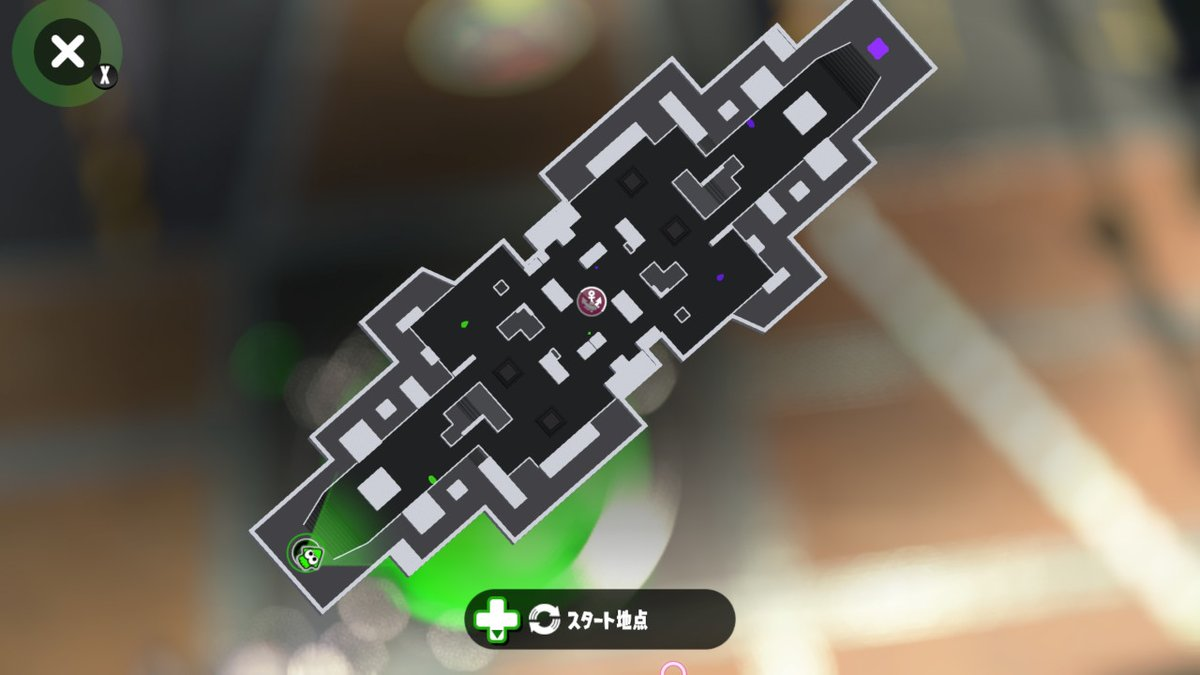
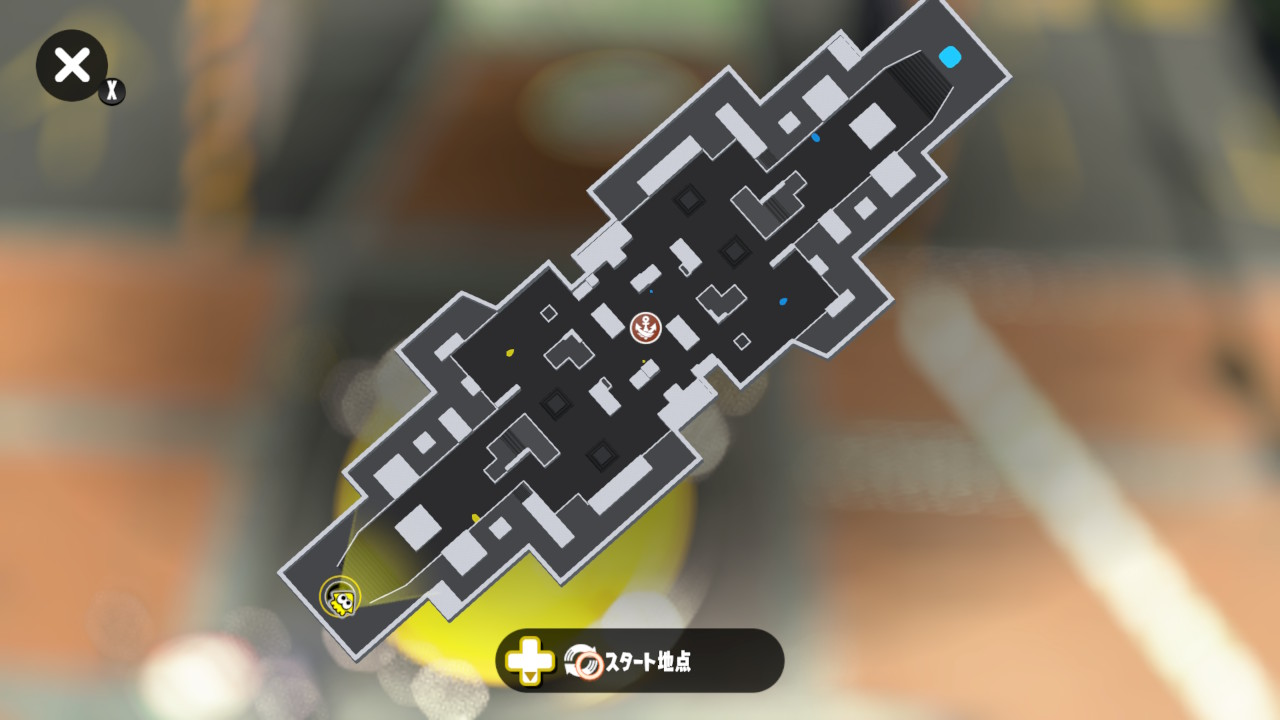
map select system changes

diff --git a/public/js/squid_map.js b/public/js/squid_map.js
@@ -48,60 +48,64 @@ $(function(){
                 var canvases = [];
                 var ctxs = [];
 
-                var map_src_list = ['walleye.png','saltspray.png','urchin.png','blackbelly.png','arowana.png','mackerel.png','kelp.png','bluefin.png','moray.png','triggerfish.png','flounder.png','hammerhead.png','alfonsino.png','mahi-mahiA.png','mahi-mahiB.png','piranha.png','ancho-v.png'];
-
-                var map_name_src = [
+                var img_header = '/img/map/';
+                var stages = [
+                    {
+                        name:"バッテラストリート",
+                        eng:"TheReef"
+                    },
+                    // {
+                    //     name:"フジツボスポーツクラブ",
+                    //     eng:"MussleforgeFitness"
+                    // },
                     {
                         name:"ガンガゼ音楽堂",
-                        thumbnail:"/img/thumnail/gangaze.png",
-                        src:"/img/map/gangaze.jpg"
-                    },
-                    {
-                        name:"モズク農園",
-                        thumbnail:"/img/thumnail/mozuku.jpg",
-                        src:"/img/map/mozuku.jpg"
-                    },
-                    {
-                        name:"ホッケ埠頭",
-                        thumbnail:"/img/thumnail/hokke.png",
-                        src:"/img/map/hokke.jpg"
-                    },
-                    {
-                        name:"エンガワ河川敷",
-                        thumbnail:"/img/thumnail/engawa.jpg",
-                        src:"/img/map/engawa.jpg"
-                    },
-                    {
-                        name:"フジツボスポーツクラブ",
-                        thumbnail:"/img/thumnail/hujitsubo.png",
-                        src:"/img/map/hujitsubo.jpg"
-                    },
-                    {
-                        name:"モズク農園",
-                        thumbnail:"/img/thumnail/mozuku.jpg",
-                        src:"/img/map/mozuku.jpg"
-                    },
-                    {
-                        name:"チョウザメ造船所",
-                        thumbnail:"/img/thumnail/chouzame.png",
-                        src:"/img/map/chouzame.jpg"
-                    },
-                    {
-                        name:"海女美術大学",
-                        thumbnail:"/img/thumnail/amabi.png",
-                        src:"/img/map/amabi.jpg"
-                    },
-                    {
-                        name:"タチウオパーキング",
-                        thumbnail:"/img/thumnail/tachiuo.png",
-                        src:"/img/map/tachiuo.jpg"
+                        eng:"StarfishMainstage"
                     },
                     {
                         name:"コンブトラック",
-                        thumbnail:"/img/thumnail/konbu.png",
-                        src:"/img/map/konbu.jpg"
+                        eng:"HumpbackPumpTrack"
                     },
-
+                    // {
+                    //     name:"海女美術大学",
+                    //     eng:"InkblotArtAcademy"
+                    // },
+                    // {
+                    //     name:"チョウザメ造船所",
+                    //     eng:"SturgeonShipyard"
+                    // },
+                    // {
+                    //     name:"タチウオパーキング",
+                    //     eng:"MorayTowers"
+                    // },
+                    // {
+                    //     name:"ホッケ埠頭",
+                    //     eng:"PortMackerel"
+                    // },
+                    // {
+                    //     name:"マンタマリア号",
+                    //     eng:"MantaMaria"
+                    // },
+                    // {
+                    //     name:"モズク農園",
+                    //     eng:"KelpDome"
+                    // },
+                    // {
+                    //     name:"エンガワ河川敷",
+                    //     eng:"SnapperCanal"
+                    // },
+                    // {
+                    //     name:"Bバスパーク",
+                    //     eng:"BlackbellySkatepark"
+                    // },
+                    // {
+                    //     name:"ザトウマーケット",
+                    //     eng:"MakoMart"
+                    // },
+                    // {
+                    //     name:"ハコフグ倉庫",
+                    //     eng:"WalleyeWarehouse"
+                    // }
                 ];
 
                 var $slider = $('#layer_opacity').slider({
@@ -141,6 +145,7 @@ $(function(){
 
                 $('[name="rule"]').change(function(event) {
                     console.log($(this).val());
+                    $('#view').css('background-image', 'url('+img_header+stages[$('#view').data('mapnum')].eng+ '/'+ $(this).val() +'.jpg'+')');
                     socket.emit('c2s_broadcast',{
                         act:'select_rule',
                         rule:$(this).val()
@@ -338,7 +343,7 @@ $(function(){
                                 });
                             });
                             $(map).attr(
-                                "src",map_name_src[$('#view').data('mapnum')].src
+                                "src",img_header+stages[$('#view').data('mapnum')].eng+'/'+ $('[name="rule"]').val() +'.jpg'
                             );
                             break;
                     }
@@ -444,7 +449,7 @@ $(function(){
                             $this = $(".map[data-num='"+num+"']");
                             $(".map").removeClass('active');
                             $this.addClass('active');
-                            $('#view').css('background-image', 'url('+map_name_src[num].src+')').data('mapnum',num);
+                            $('#view').css('background-image', 'url('+img_header+stages[num].eng+'/'+ $('[name="rule"]').val() +'.jpg'+')').data('mapnum',num);
                         break;
 
                         case "change_layer_name":
@@ -455,6 +460,8 @@ $(function(){
                         case "select_rule":
                             console.log(data.rule);
                             $('[name="rule"]').val(data.rule);
+                            $('#view').css('background-image', 'url('+img_header+stages[$('#view').data('mapnum')].eng+'/'+ data.rule +'.jpg'+')').data('mapnum',num);
+
                         break;
                     }
                 });
@@ -592,8 +599,8 @@ $(function(){
                     $this = $(".map[data-num='"+num+"']");
                     $(".map").removeClass('active');
                     $this.addClass('active');
-
-                    $('#view').data('num',num).css('background-image', 'url('+map_name_src[num].src+')').data('mapnum',num);
+                    console.log(img_header+stages[num].eng+'/'+data.rule +'.jpg');
+                    $('#view').data('num',num).css('background-image', 'url('+img_header+stages[num].eng+'/'+data.rule +'.jpg'+')').data('mapnum',num);
                     /////canvasnの同期
                     $.each(data.canvases,function(index, val) {
                         var image = new Image();
@@ -668,22 +675,17 @@ $(function(){
                     }
                 })
 //////////////////////////////////////////////////////////////////////// マップアイコン生成 & マップ変更処理
-                $.each(map_name_src, function(index, val) {
-                    $('<li class="map" data-num="'+index+'"><img src="'+val.thumbnail+'"><div class="map_name">'+val.name+'</div></li>').appendTo('#map_list').click(function(e){
+                $.each(stages, function(index, val) {
+                    $('<li class="map" data-num="'+index+'"><img src="'+img_header+val.eng+ '/thumnail.jpg'+'"><div class="map_name">'+val.name+'</div></li>').appendTo('#map_list').click(function(e){
                         var num = $(this).data('num');
                         $('.map').removeClass('active');
                         $(this).addClass('active');
-                        $('#view').css('background-image', 'url('+val.src+')').data('mapnum',num);
+                        $('#view').css('background-image', 'url('+img_header+val.eng+ '/'+ $('[name="rule"]').val() +'.jpg'+')').data('mapnum',num);
                         socket.emit('c2s_broadcast', {
                             act: 'change_map',
                             num: num
                         });
                     });
                 });
-                $('.map').first().addClass('active');
-
-
-
-
 
 });
